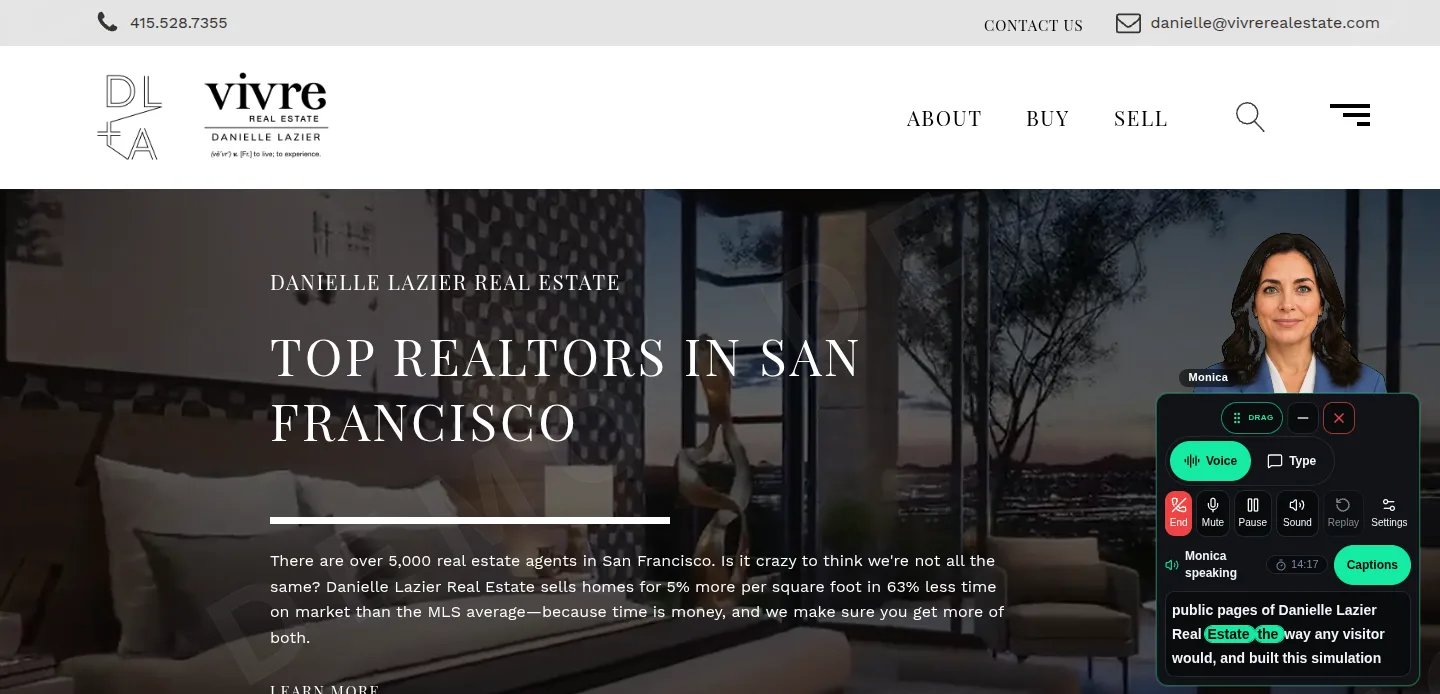
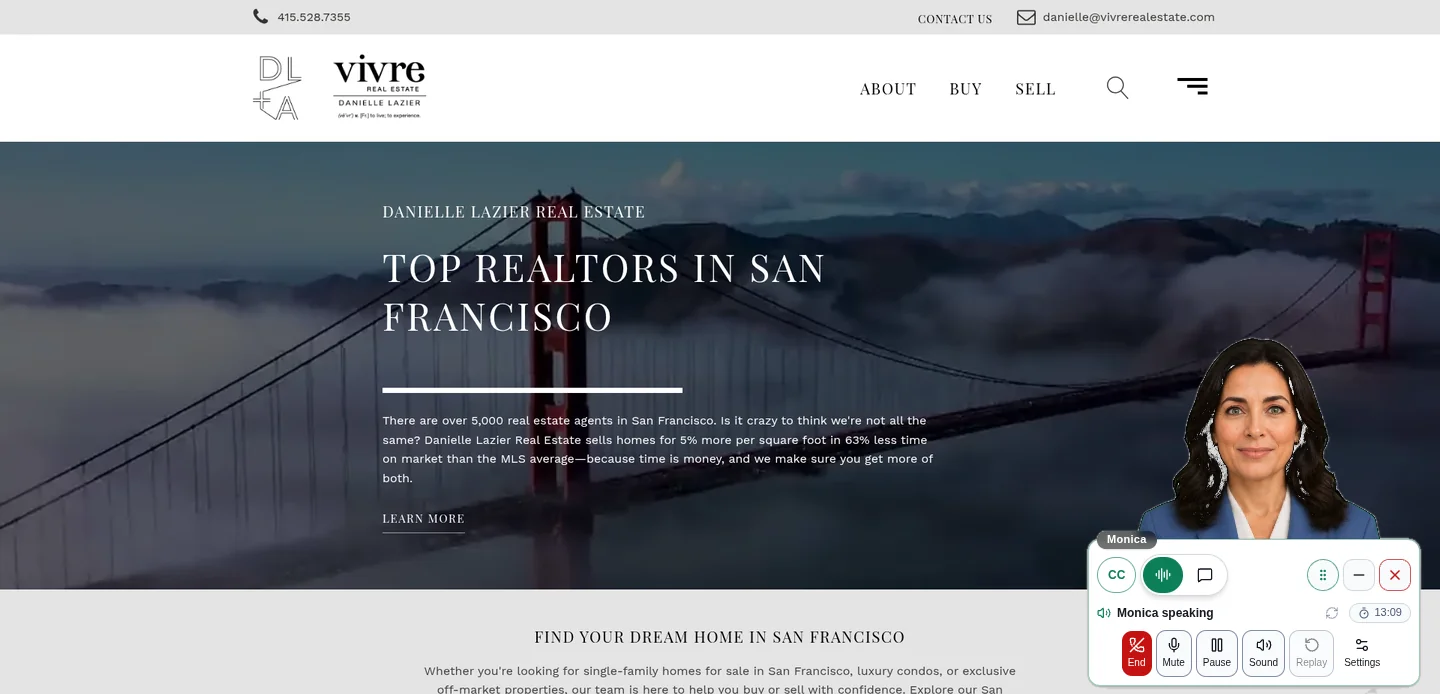
Gallery panel stills batch 5 (LAST): danielle-lazier desktop+mobile, logan-walter mobile, gian-sexsmith mobile, jean-luc-andriot mobile
Real panel blocks from fresh Nov-22 guarded in-session frames (Monica for Lazier, James for the other three; captions off) composited over the businesses' stored site captures at the true anchored position, current-design demo header from each lead's own frame. Sessions ran under the no-live-business-site guard: each lead's replica document request to its own domain was aborted in-browser before anything was fetched (nothing downloaded, no approval raised). Walter's phone card uses his stored desktop capture (his stored mobile capture is a bot-check page). Parked list in examplesGalleryThumbs.ts is now empty.

diff --git a/src/components/landing/examplesGalleryThumbs.ts b/src/components/landing/examplesGalleryThumbs.ts
@@ -51,15 +51,28 @@
  * mobile is finished — a real panel block from his fresh Nov-22
  * in-session frame (Frank speaking, captions off) composited
  * over his stored site capture, with the current-design demo
- * header taken from that same frame. Still parked (cards keep
- * their previous still): danielle-lazier (desktop + mobile),
- * logan-walter mobile, gian-sexsmith mobile and
- * jean-luc-andriot mobile. Fresh Nov-22 sessions for those four
- * leads were run under Ron's no-live-business-site rule, and
- * each lead's /demo-site page tries to load the business's live
- * homepage in its replica frame (the request was blocked
- * in-browser; nothing was fetched and no approval was raised),
- * so no still was taken from those sessions.
+ * header taken from that same frame.
+ *
+ * 2026-11-22 panel re-shoot, fifth batch: the parked list is
+ * now EMPTY. danielle-lazier (desktop + mobile), logan-walter
+ * mobile, gian-sexsmith mobile and jean-luc-andriot mobile are
+ * finished the same way — real panel blocks from fresh Nov-22
+ * in-session frames (Monica for Lazier, James for the other
+ * three; captions off) composited over the businesses' stored
+ * site captures at the true anchored position, with the
+ * current-design demo header taken from each lead's own frame.
+ * The sessions ran under the no-live-business-site guard: each
+ * lead's /demo-site replica request to the business's own
+ * domain was aborted in-browser before anything was fetched
+ * (one document request per lead; nothing was downloaded and
+ * no approval was raised), so the panels were captured over
+ * the demo's blank replica and composited onto the stored
+ * captures. Backdrops: Lazier's stored desktop capture for
+ * desktop and her stored mobile capture for the phone card;
+ * the stored desktop captures for Walter, Sexsmith and
+ * Andriot (the phone demos fall back to them — Walter's
+ * stored mobile capture is a bot-check page, so his phone
+ * card uses the desktop capture like the others).
  */
 
 import thumbSpodakDentalMobile from "@/assets/b2b-example-spodak-dental-mobile.webp";
